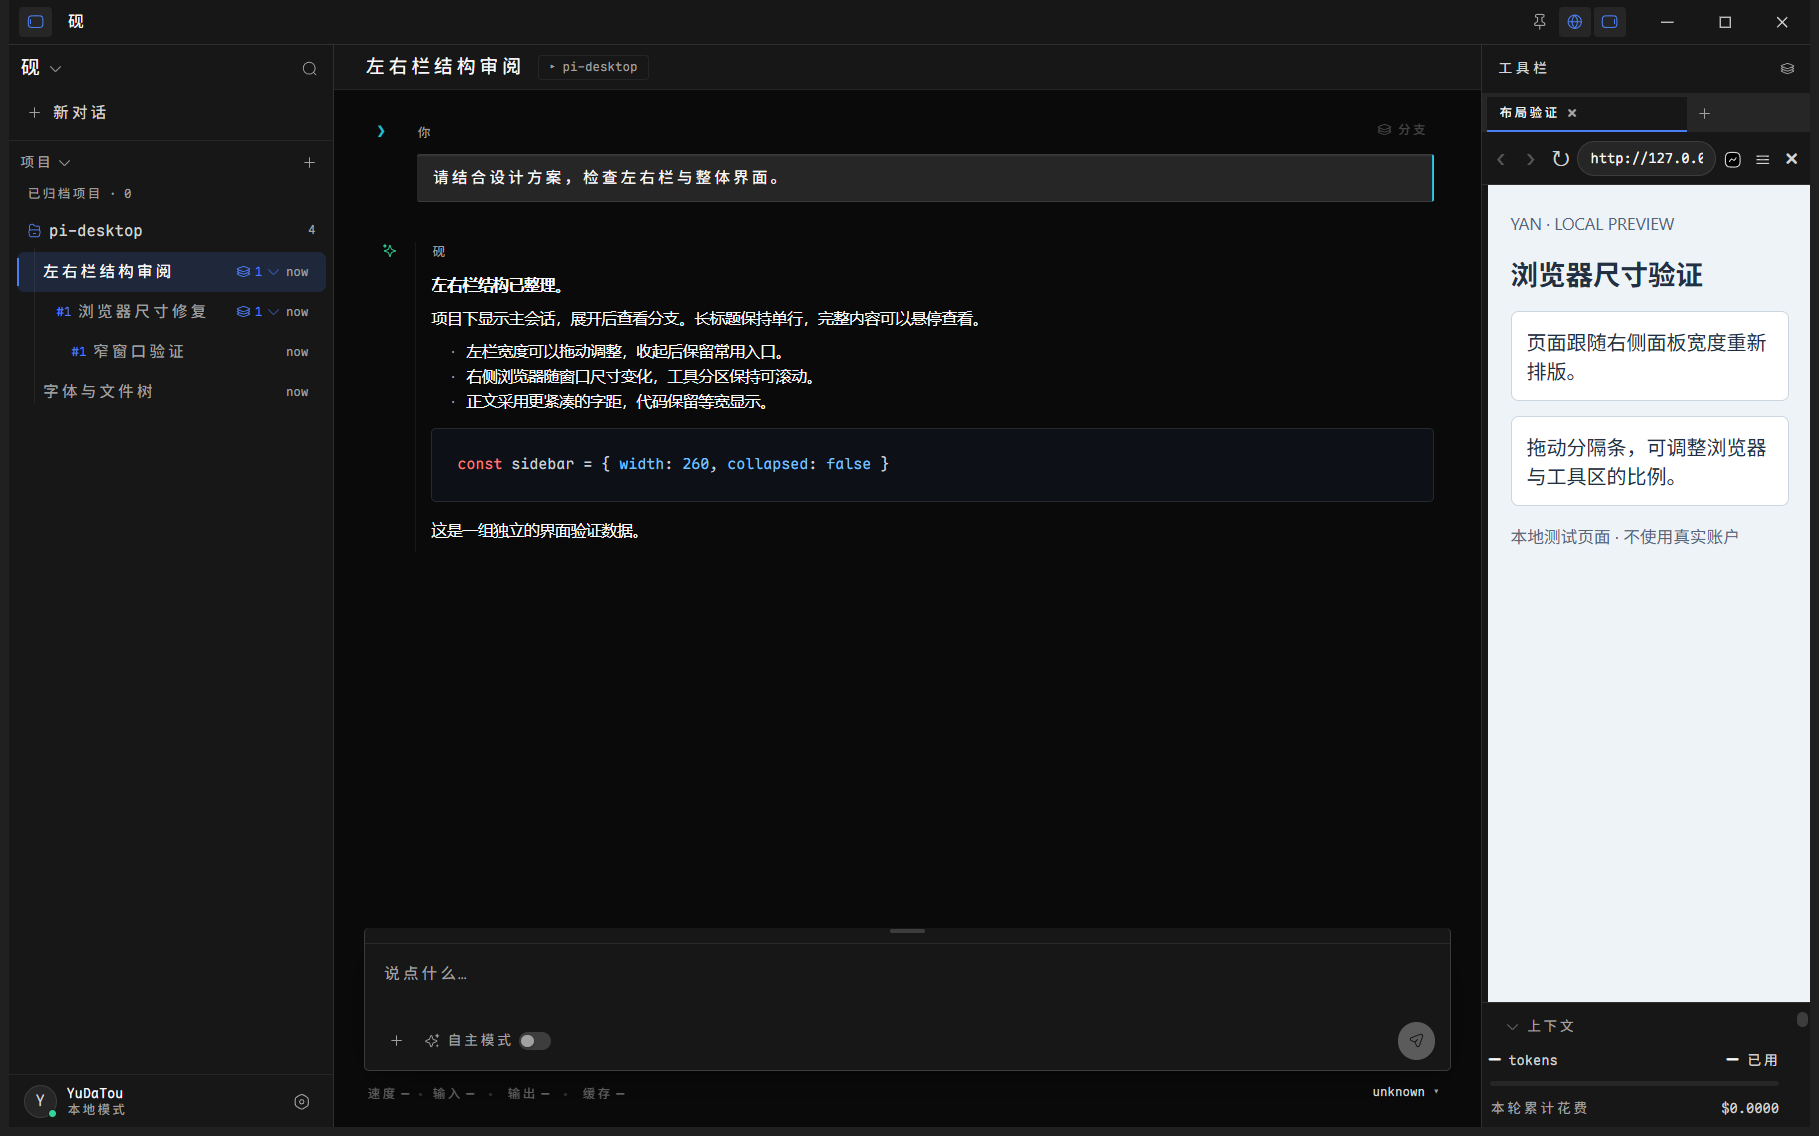
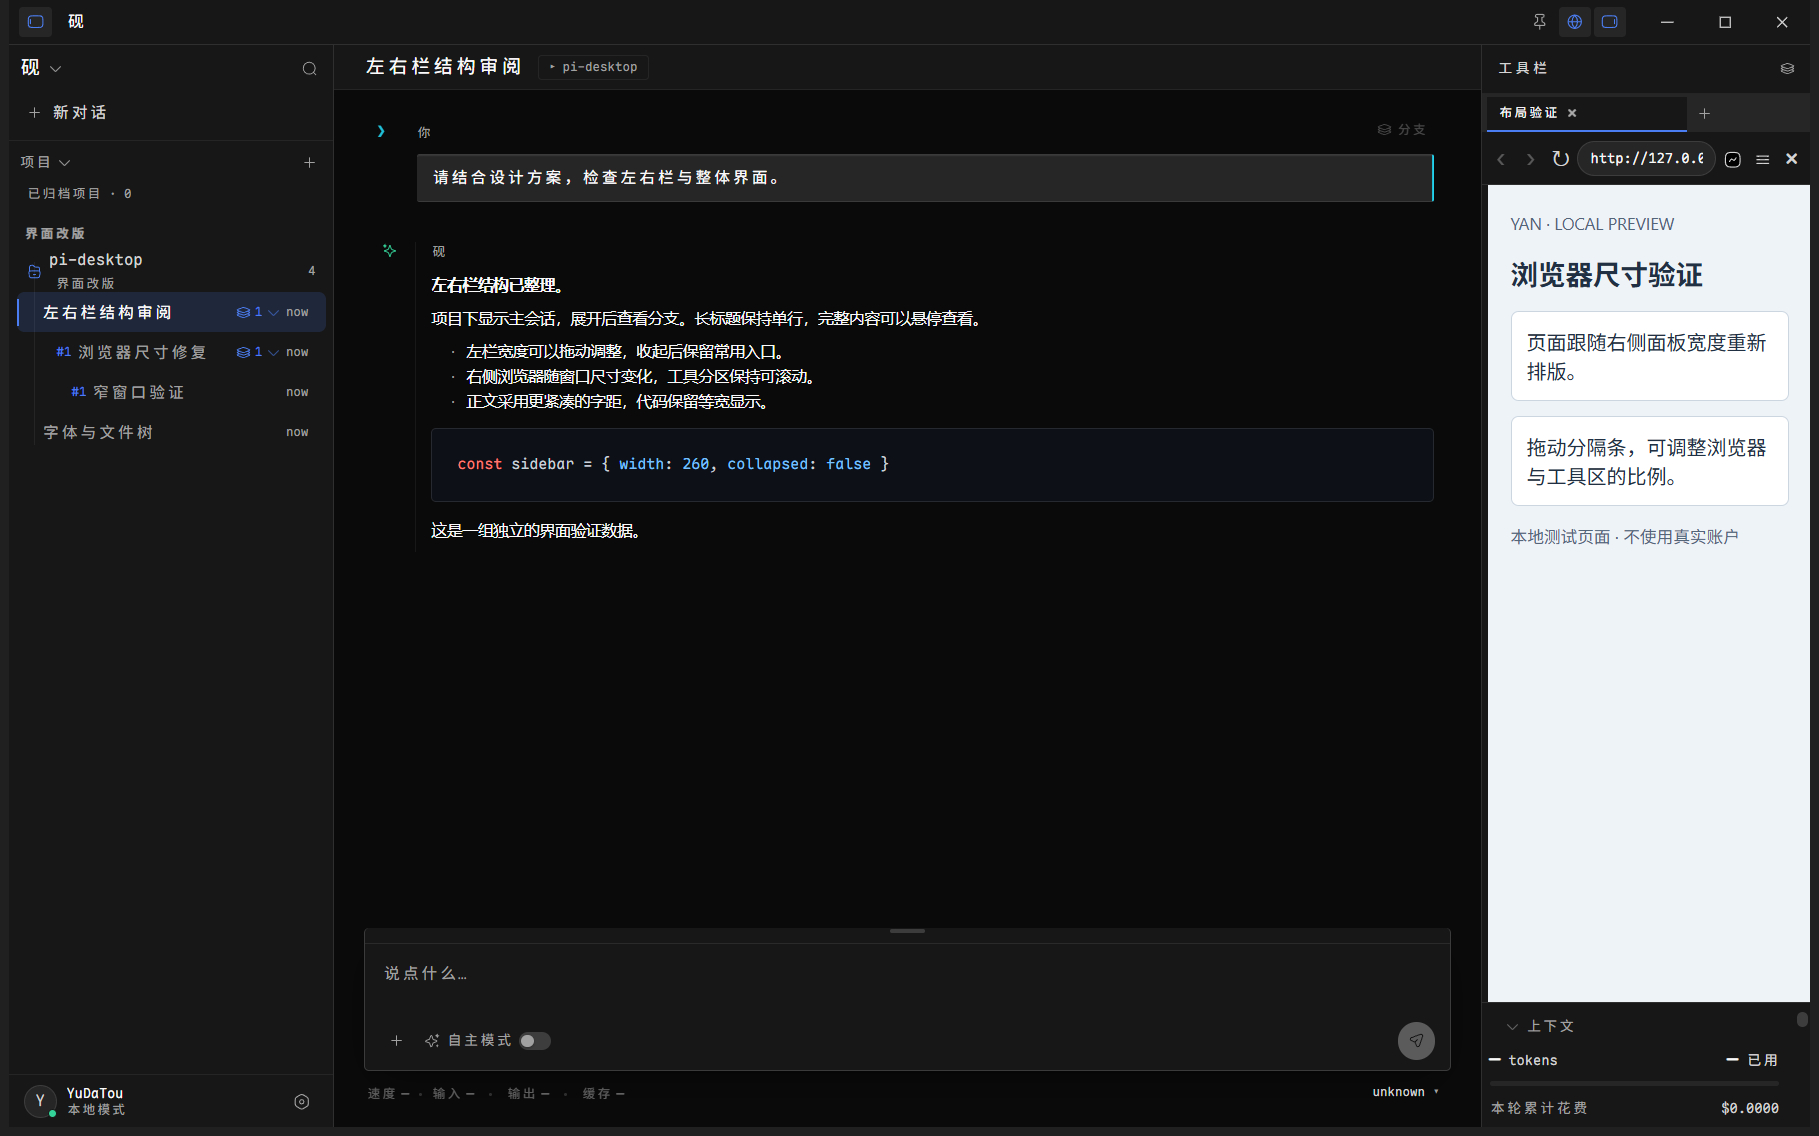
Complete project grouping and browser state transfer

Changed region(s): [[0.0, 0.1849, 0.1847, 0.4005]]

diff --git a/src/renderer/src/components/rail/Rail.tsx b/src/renderer/src/components/rail/Rail.tsx
@@ -246,6 +246,23 @@ export function Rail() {
       })
   }, [sessions, query, session, t, titles, manualTitles, projectNames, settings?.recentCwds, archived, showArchived])
 
+  // 将项目实体按持久化分组重新排列；分组标题会在项目列表中作为一级标题显示。
+  // 组内仍保留项目原本的活动排序，未分组项目统一放在最后。
+  const displayProjects = useMemo(() => {
+    const groupIdFor = (cwd: string): string | undefined => projectRecords.find((record) => record.cwd === cwd)?.groupId
+    const byGroup = new Map<string, typeof projects>()
+    for (const project of projects) {
+      const key = groupIdFor(project.cwd) ?? ''
+      const list = byGroup.get(key) ?? []
+      list.push(project)
+      byGroup.set(key, list)
+    }
+    const ordered: typeof projects = []
+    for (const group of projectGroups) ordered.push(...(byGroup.get(group.id) ?? []))
+    ordered.push(...(byGroup.get('') ?? []))
+    return ordered
+  }, [projects, projectRecords, projectGroups])
+
   /**
    * 会话分支关系（用户要求：左栏显示分支数 / 分支编号）。
    *
@@ -428,10 +445,15 @@ export function Rail() {
           ) : shown === 0 && projects.length === 0 ? (
             <div className="rail-empty">{t('rail.noMatch')}</div>
           ) : projectsOpen || query ? (
-            projects.map((p) => {
+            displayProjects.map((p, projectIndex) => {
               const pOpen = !!query || !collapsed.includes(p.cwd)
+              const groupId = projectRecords.find((record) => record.cwd === p.cwd)?.groupId
+              const group = groupId ? projectGroups.find((candidate) => candidate.id === groupId) : undefined
+              const previous = displayProjects[projectIndex - 1]
+              const previousGroupId = previous ? projectRecords.find((record) => record.cwd === previous.cwd)?.groupId : undefined
               return (
                 <div key={p.cwd} className="proj">
+                  {group && groupId !== previousGroupId ? <div className="proj-group-heading" data-testid="rail-project-group" title={group.name}>{group.name}</div> : null}
                   {projRename === p.cwd ? (
                     /* 项目行内重命名：Enter 提交 / Esc 取消 / 失焦提交 */
                     <div className="proj-head renaming" data-testid="rail-project-rename">

diff --git a/src/renderer/src/components/browser/BrowserSurface.tsx b/src/renderer/src/components/browser/BrowserSurface.tsx
@@ -23,6 +23,7 @@ export function BrowserSurface() {
   const openExternalChrome = useStore((s) => s.openExternalChrome)
   const closeExternalChrome = useStore((s) => s.closeExternalChrome)
   const syncLocalProfile = useStore((s) => s.syncLocalProfile)
+  const syncPageStorage = useStore((s) => s.syncPageStorage)
   const [syncing, setSyncing] = useState(false)
   const [menuOpen, setMenuOpen] = useState(false)
   const tabs = state.tabs ?? []
@@ -37,6 +38,11 @@ export function BrowserSurface() {
       const report = await syncLocalProfile()
       setSyncNotice(`${report.source ?? ''} → ${report.target ?? ''}: ${report.copied.join(', ')}${report.failed.length ? ' · ' + report.failed.map((x) => x.reason).join('; ') : ''}`)
     } catch { setError(t('browser.syncFailed')) } finally { setSyncing(false) }
+  }
+  const syncStorage = async (): Promise<void> => {
+    setSyncing(true)
+    try { const report = await syncPageStorage(); setSyncNotice(`${report.source ?? ''} → ${report.target ?? ''}: ${report.copied.join(', ')}`) }
+    catch (e) { setError(e instanceof Error ? e.message : t('browser.syncFailed')) } finally { setSyncing(false) }
   }
   const viewportRef = useRef<HTMLDivElement>(null)
   const menuRef = useRef<HTMLDivElement>(null)
@@ -200,6 +206,9 @@ export function BrowserSurface() {
         <div className="browser-actions" data-testid="browser-menu">
           {external ? <button className="browser-action" disabled={syncing} onClick={() => void syncCookies()} title={t('browser.cookieScope')}>
             {syncing ? t('browser.syncing') : state.mode === 'external' ? t('browser.cookiesToEmbedded') : t('browser.cookiesToChrome')}
+          </button> : null}
+          {external ? <button className="browser-action" disabled={syncing} onClick={() => void syncStorage()} title={t('browser.storageScope')}>
+            {syncing ? t('browser.syncing') : t('browser.storageCopy')}
           </button> : null}
           {syncNotice ? <span className="browser-sync-result" title={syncNotice}>{syncNotice}</span> : null}
           <button

diff --git a/scripts/probe/sidebar-review.js b/scripts/probe/sidebar-review.js
@@ -14,6 +14,7 @@
   const grandchild = sample('review-grandchild', '窄窗口验证', child.path)
   const other = sample('review-other', '字体与文件树')
   const list = [root, child, grandchild, other]
+  const group = { id: 'review-group', name: '界面改版', createdAt: stamp }
   const messages = [
     { id: 'review-u', role: 'user', text: '请结合设计方案，检查左右栏与整体界面。' },
     { id: 'review-a', role: 'assistant', text: '**左右栏结构已整理。**\n\n项目下显示主会话，展开后查看分支。长标题保持单行，完整内容可以悬停查看。\n\n- 左栏宽度可以拖动调整，收起后保留常用入口。\n- 右侧浏览器随窗口尺寸变化，工具分区保持可滚动。\n- 正文采用更紧凑的字距，代码保留等宽显示。\n\n```ts\nconst sidebar = { width: 260, collapsed: false }\n```\n\n这是一组独立的界面验证数据。' }
@@ -22,8 +23,9 @@
   // Keep the renderer-only fixture independent of pi's disk session refresh.
   store.setState({ refreshSessions: async () => {} })
   store.getState().setRailPinned(true)
-  await store.getState().patchSettings({ railWidth: 0, panelWidth: 264, rightPanelOpen: true, browserHeight: 900 })
+  await store.getState().patchSettings({ railWidth: 0, panelWidth: 264, rightPanelOpen: true, browserHeight: 900, projectGroups: [group], projects: [{ id: 'review-project', cwd, name: 'pi-desktop', groupId: group.id, archived: false, createdAt: stamp, updatedAt: stamp }] })
   await sleep(350)
+  assert(document.querySelector('[data-testid="rail-project-group"]')?.textContent === group.name, 'Project group must render as a first-level heading')
   const row = (path) => [...document.querySelectorAll('.proj [data-session-path]')].find((el) => el.dataset.sessionPath === path)
   assert(row(root.path) && !row(child.path), 'Branches must start collapsed without duplicate project roots')
   row(root.path).querySelector('[data-testid="rail-branch-toggle"]').click()

diff --git a/src/main/browser.ts b/src/main/browser.ts
@@ -39,6 +39,7 @@ import { defaultProfileDir, launchChrome, pickFreePort, stopChrome } from './chr
 import { syncLocalChromeData, type ChromeSyncReport } from './chrome-profile'
 import { YAN_DIR } from './paths'
 import { transferCookies } from './browser/cookie-transfer'
+import { transferPageStorage } from './browser/storage-transfer'
 
 type Push = (msg: MainPush) => void
 type BrowserActionResult = { ok: boolean; error?: string; code?: string }
@@ -705,6 +706,21 @@ export class BrowserController {
     const profileDir = defaultProfileDir(YAN_DIR)
     await mkdir(profileDir, { recursive: true })
     const report = await syncLocalChromeData(profileDir)
+    return report
+  }
+
+  async syncPageStorage(): Promise<ChromeSyncReport> {
+    if (!this.external) throw new Error('请先接入本机 Chrome')
+    const embedded = this.activeTab() ?? this.createTab()
+    const externalUrl = this.external.url
+    const embeddedUrl = embedded.state.url
+    if (new URL(externalUrl).origin !== new URL(embeddedUrl).origin) throw new Error('两个页面必须处于同一网站，才能复制当前页面存储')
+    const from = this.activeMode === 'external' ? this.external.cdp : embedded.cdp
+    const to = this.activeMode === 'external' ? embedded.cdp : this.external.cdp
+    const results = await Promise.all([transferPageStorage(from, to, 'localStorage'), transferPageStorage(from, to, 'sessionStorage')])
+    const report: ChromeSyncReport = { found: true, chromeRunning: true, cookiesSynced: false, source: this.activeMode === 'external' ? 'Chrome 当前页面' : '内置浏览器当前页面', target: this.activeMode === 'external' ? '内置浏览器当前页面' : 'Chrome 当前页面', copied: results.map((r) => `${r.kind}: ${r.copied}`), failed: results.flatMap((r) => r.failed ? [{ item: r.kind, reason: `${r.failed} 项未能复制` }] : []) }
+    this.external.syncReport = report
+    this.updateState()
     return report
   }
 

diff --git a/src/main/browser/storage-transfer.ts b/src/main/browser/storage-transfer.ts
@@ -1,0 +1,11 @@
+import type { CdpChannel } from './CdpChannel'
+export type StorageTransferReport = { copied: number; failed: number; kind: 'localStorage' | 'sessionStorage' }
+export async function transferPageStorage(source: CdpChannel, target: CdpChannel, kind: StorageTransferReport['kind']): Promise<StorageTransferReport> {
+  const expression = `(() => { const s = ${kind}; const out = {}; for (let i = 0; i < s.length; i++) { const k = s.key(i); if (k !== null) out[k] = s.getItem(k); } return out })()`
+  const result = await source.send<{ result?: { value?: Record<string, string | null> } }>('Runtime.evaluate', { expression, returnByValue: true })
+  const values = result.result?.value ?? {}
+  const targetExpression = `(() => { const data = ${JSON.stringify(values)}; const s = ${kind}; let copied = 0; for (const [k, v] of Object.entries(data)) { try { if (v === null) s.removeItem(k); else s.setItem(k, v); copied++; } catch {} } return copied })()`
+  const written = await target.send<{ result?: { value?: number } }>('Runtime.evaluate', { expression: targetExpression, returnByValue: true })
+  const copied = Number(written.result?.value ?? 0)
+  return { copied, failed: Object.keys(values).length - copied, kind }
+}

diff --git a/src/renderer/src/state/store.ts b/src/renderer/src/state/store.ts
@@ -272,6 +272,7 @@ interface Store {
    * 返回逐项报告 —— 界面要如实说「哪几项没同步、为什么」。
    */
   syncLocalProfile: () => Promise<ChromeSyncReport>
+  syncPageStorage: () => Promise<ChromeSyncReport>
   /**
    * 改用户档案（名字 / 头像）。
    * 参数是**部分**，主进程会与现有档案合并（只改名字不能把头像清空）。
@@ -1119,6 +1120,11 @@ export const useStore = create<Store>((rawSet, get) => {
      * 同步后主进程可能重启了外部 Chrome（为让 cookie 生效），
      * 所以重新拉一次状态，而不是假定旧状态还成立。
      */
+    set({ browserState: await window.yan.browser.getState() })
+    return report
+  },
+  syncPageStorage: async () => {
+    const report = await window.yan.browser.syncPageStorage()
     set({ browserState: await window.yan.browser.getState() })
     return report
   },

diff --git a/src/main/sessions.ts b/src/main/sessions.ts
@@ -357,10 +357,14 @@ export async function deleteSession(path: string, protectedPath?: string): Promi
     byParent.set(session.parentSession, children)
   }
   const paths: string[] = []
-  const visit = (candidate: string): void => {
-    if (paths.includes(candidate)) return
+  const visited = new Set<string>()
+  const visit = (candidate: string, sessionId?: string): void => {
+    if (visited.has(candidate)) return
+    visited.add(candidate)
     paths.push(candidate)
-    for (const child of byParent.get(candidate) ?? []) visit(child.path)
+    const id = sessionId ?? all.find((session) => resolve(session.path) === candidate)?.id
+    if (!id) return
+    for (const child of byParent.get(id) ?? []) visit(resolve(child.path), child.id)
   }
   visit(resolved)
   if (protectedPath && paths.includes(resolve(protectedPath))) {

diff --git a/src/main/index.ts b/src/main/index.ts
@@ -698,6 +698,7 @@ function registerIpc(): void {
   ipcMain.handle('yan:browser:syncLocalProfile', () =>
     browser?.syncLocalProfile() ?? { found: false, copied: [], failed: [], chromeRunning: false, cookiesSynced: false }
   )
+  ipcMain.handle('yan:browser:syncPageStorage', () => browser?.syncPageStorage() ?? Promise.reject(new Error('浏览器未初始化')))
   ipcMain.handle('yan:browser:setUserControl', (_e, value: boolean) => browser?.setUserControl(Boolean(value)))
   ipcMain.handle('yan:browser:setBounds', (_e, bounds: { x: number; y: number; width: number; height: number }) => {
     browser?.setBounds(bounds)

diff --git a/src/preload/index.ts b/src/preload/index.ts
@@ -154,6 +154,7 @@ const api: YanBridge = {
     openExternalChrome: (url) => invoke<Ok>('yan:browser:openExternalChrome', url),
     closeExternalChrome: () => invoke<BrowserState>('yan:browser:closeExternalChrome'),
     syncLocalProfile: () => invoke<ChromeSyncReport>('yan:browser:syncLocalProfile'),
+    syncPageStorage: () => invoke<ChromeSyncReport>('yan:browser:syncPageStorage'),
     setUserControl: (value) => invoke<BrowserState>('yan:browser:setUserControl', value),
     setBounds: (bounds: BrowserBounds) => invoke<void>('yan:browser:setBounds', bounds)
   },

diff --git a/src/shared/ipc.ts b/src/shared/ipc.ts
@@ -1073,6 +1073,7 @@ export interface YanBridge {
     closeExternalChrome(): Promise<BrowserState>
     /** 重新同步本机 Chrome 的登录态与历史（退出 Chrome 后调用才拿得到 cookie） */
     syncLocalProfile(): Promise<ChromeSyncReport>
+    syncPageStorage(): Promise<ChromeSyncReport>
     setUserControl(value: boolean): Promise<BrowserState>
     setBounds(bounds: BrowserBounds): Promise<void>
   }

diff --git a/src/renderer/src/styles/redesign.css b/src/renderer/src/styles/redesign.css
@@ -1109,6 +1109,17 @@
 }
 
 /* ---- 项目行 ---- */
+.proj-group-heading {
+  margin: 12px 6px 4px;
+  color: var(--fg-mute);
+  font-size: var(--fs-xs);
+  font-weight: 600;
+  letter-spacing: .04em;
+  text-transform: uppercase;
+  overflow: hidden;
+  text-overflow: ellipsis;
+  white-space: nowrap;
+}
 .proj + .proj {
   margin-top: 3px;
 }
